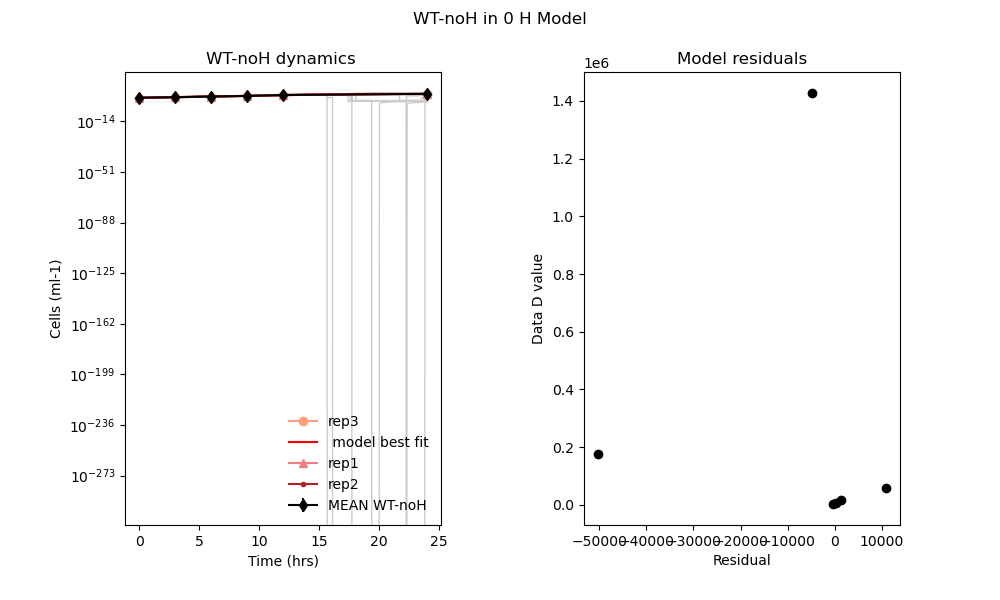
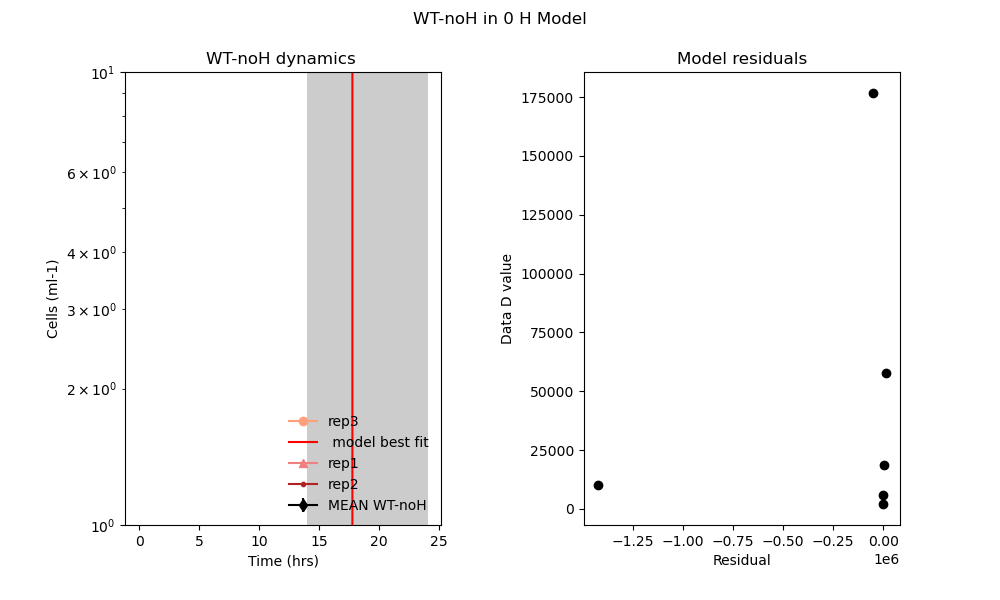
eod

diff --git a/src/model_spiked_pro_batch.py b/src/model_spiked_pro_batch.py
@@ -82,7 +82,7 @@ df = df4
 #plotting data and error within biological reps 
 #####################################################
 # fig set up and main title 
-fig2, (ax0,ax1)= plt.subplots(1,2,figsize = (10,6))
+fig2, (ax0,ax1)= plt.subplots(1,2,figsize = (9,5))
 fig2.suptitle('Pro  Monoculture in 400 nM HOOH')
 fig2.subplots_adjust(right=0.90, wspace = 0.25, hspace = 0.30)
 
@@ -201,7 +201,7 @@ mod4 = a4.integrate()
 #####################################################
 
 ###### fig set up
-fig3, ax3 = plt.subplots(1,2,figsize = (8,5)) #fig creationg of 1 by 2
+fig3, ax3 = plt.subplots(1,2,figsize = (9,5)) #fig creationg of 1 by 2
 fig3.suptitle('Pro in 400 H Model') #setting main title of fig
 
 ####### fig config and naming 
@@ -244,7 +244,7 @@ fig3.savefig('../figures/pro_data_400')
 #########################################################
 
 # set up graph
-fig4,ax4 = plt.subplots(1,3,figsize=[7,4])
+fig4,ax4 = plt.subplots(1,3,figsize=[10,4])
 #set titles and config graph 
 fig4.suptitle('Pro Monoculture parameters in 400 HOOH ')
 ax4[0].set_title('Pro dyanmics')
@@ -284,7 +284,7 @@ fig4.savefig('../figures/pro_odelib4_Pparams')
 #########################################################
 
 #HOOH dynamics 
-fig5,ax5 = plt.subplots(1,3,figsize=[7,4])
+fig5,ax5 = plt.subplots(1,3,figsize=[10,4])
 fig5.suptitle('HOOH parmaters in 400 HOOH')
 ax5[0].set_title('HOOH dynamics')
 ax5[1].set_title('H0')

diff --git a/src/model_abiotic_batch.py b/src/model_abiotic_batch.py
@@ -184,7 +184,7 @@ ax1[2].set_xlabel('Parameter Value (Logged)')
 
 #plot dynamics of data and model for 0 assay 
 ax1[0].plot(df0.time,df0.abundance, marker='o',color = c0, label = 'H data ') #data of 0 H assay
-ax1[0].plot(mod0.time,mod0['H'],c='k',lw=1.5,label=' model best fit') #best model fit of 0 H assay
+ax1[0].plot(mod0.time,mod0['H'],c='r',lw=1.5,label=' model best fit') #best model fit of 0 H assay
 a0.plot_uncertainty(ax1[0],posteriors0,'H',100)
 
 # plot histograms of params next to dynamics graphs
@@ -286,9 +286,9 @@ ax5.set_ylabel('HOOH Concentration nM/mL')
 ax5.set_xlabel('Time (days)')
 
 #plot dynamics of data and model for 0 assay 
-ax1[0].plot(df0.time,df0.abundance, marker='o',color = c0, label = 'H data ') #data of 0 H assay
-#ax1[0].plot(mod0.time,mod0['H'],c='k',lw=1.5,label=' model best fit') #best model fit of 0 H assay
-#a0.plot_uncertainty(ax1[0],posteriors0,'H',100)
+ax5.plot(df0.time,df0.abundance, marker='o',color = c0, label = 'H data ') #data of 0 H assay
+ax5.plot(mod0.time,mod0['H'],c='r',lw=1.5,label=' model best fit') #best model fit of 0 H assay
+a0.plot_uncertainty(ax5,posteriors0,'H',100)
 
 
 #config legends

diff --git a/src/model_cat_muts_noC_vibrio.py b/src/model_cat_muts_noC_vibrio.py
@@ -203,7 +203,7 @@ for (s,ns) in zip( Ss,range(nSs)):
     
     
     ###################
-    fig2,ax2 = plt.subplots(1,3,sharex=True,figsize=[8,5]) 
+    fig2,ax2 = plt.subplots(1,3, figsize=[8,5]) 
     
     ax2[0].set_title(('MHM Model Dynamics for '+str(s)), fontsize = 16)
     ax2[1].set_title('D0', fontsize = 12)
@@ -247,7 +247,7 @@ for (s,ns) in zip( Ss,range(nSs)):
     #graphing trace of Param values
     ##################################
     #crating and config of fig 3
-    fig3,ax3 = plt.subplots(1,2,sharex=True,figsize=[8,5]) #make plot
+    fig3,ax3 = plt.subplots(1,2, figsize=[8,5]) #make plot
     fig3.suptitle((str(s) +' MHMnoC Trace plots in 0H')) #set main title 
     fig3.subplots_adjust(right=0.90, wspace = 0.55, top = 0.90) #shift white space for better fig view
     fig3.supxlabel('Model Iteration') #set overall x title 

diff --git a/src/phi_vs_kdam.py b/src/phi_vs_kdam.py
@@ -26,8 +26,8 @@ import pandas as pd
 
 
 df = pd.DataFrame({'names' : ('Syn WH7803','Pro MIT9215'),
-                                'phis' : [2.34E-06,9.32E-17],
-                                'kdams' : [6.20E-06,0.00281796] }, 
+                                'phis' : [1.71E-06,2.82E-12],
+                                'kdams' : [0.00132393992680983,0.00322116921322925] }, 
                                 columns=['names','phis', 'kdams'])
 
 #Not all of the data sets have cocurrent HOOH measurements so Phi is less constrained and therefore can be biassing the conclusions a lot. 
